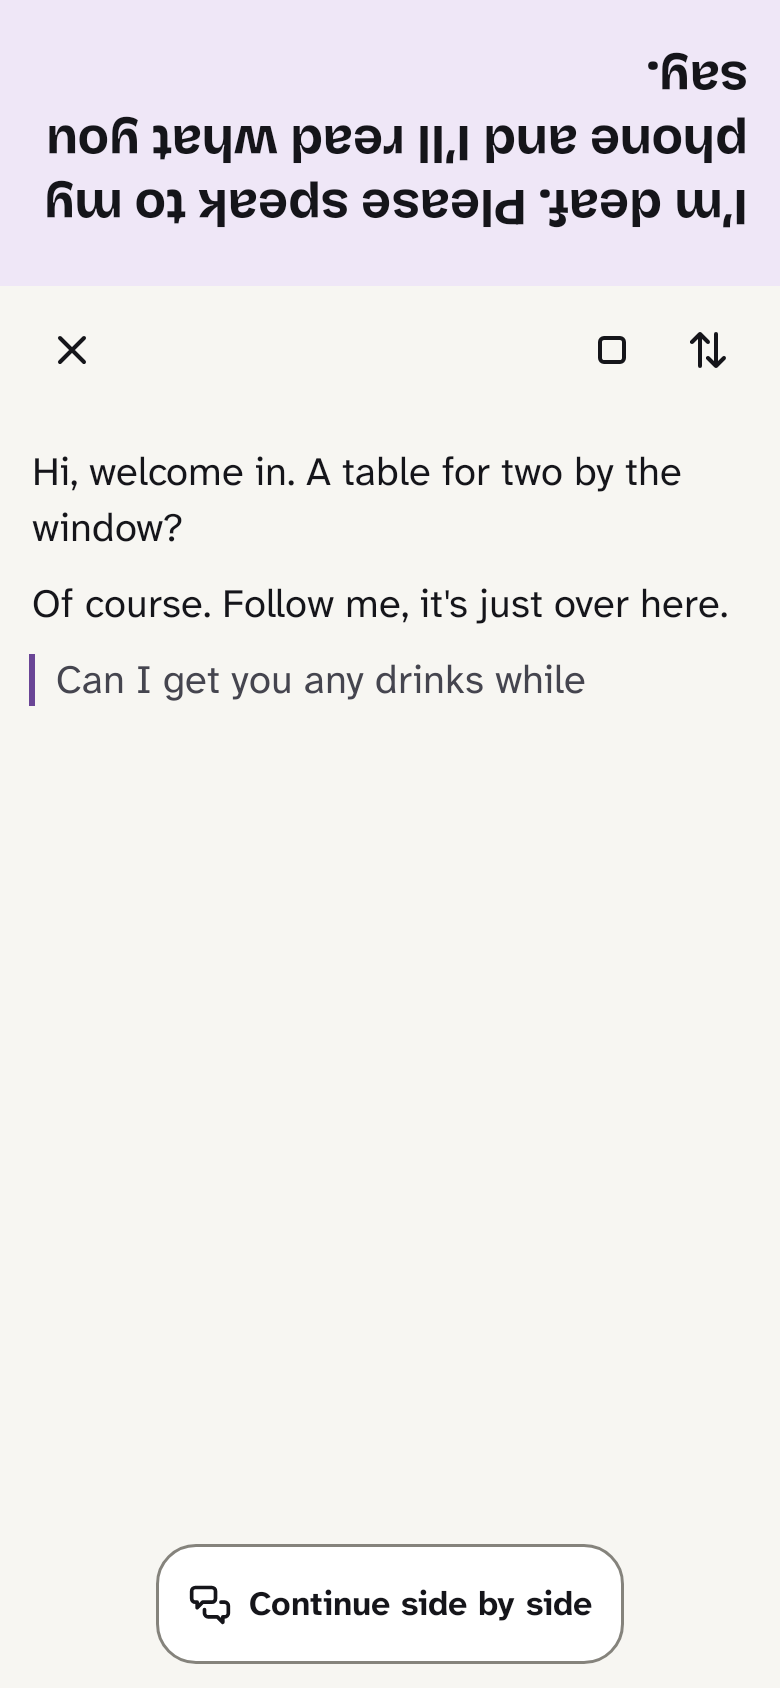
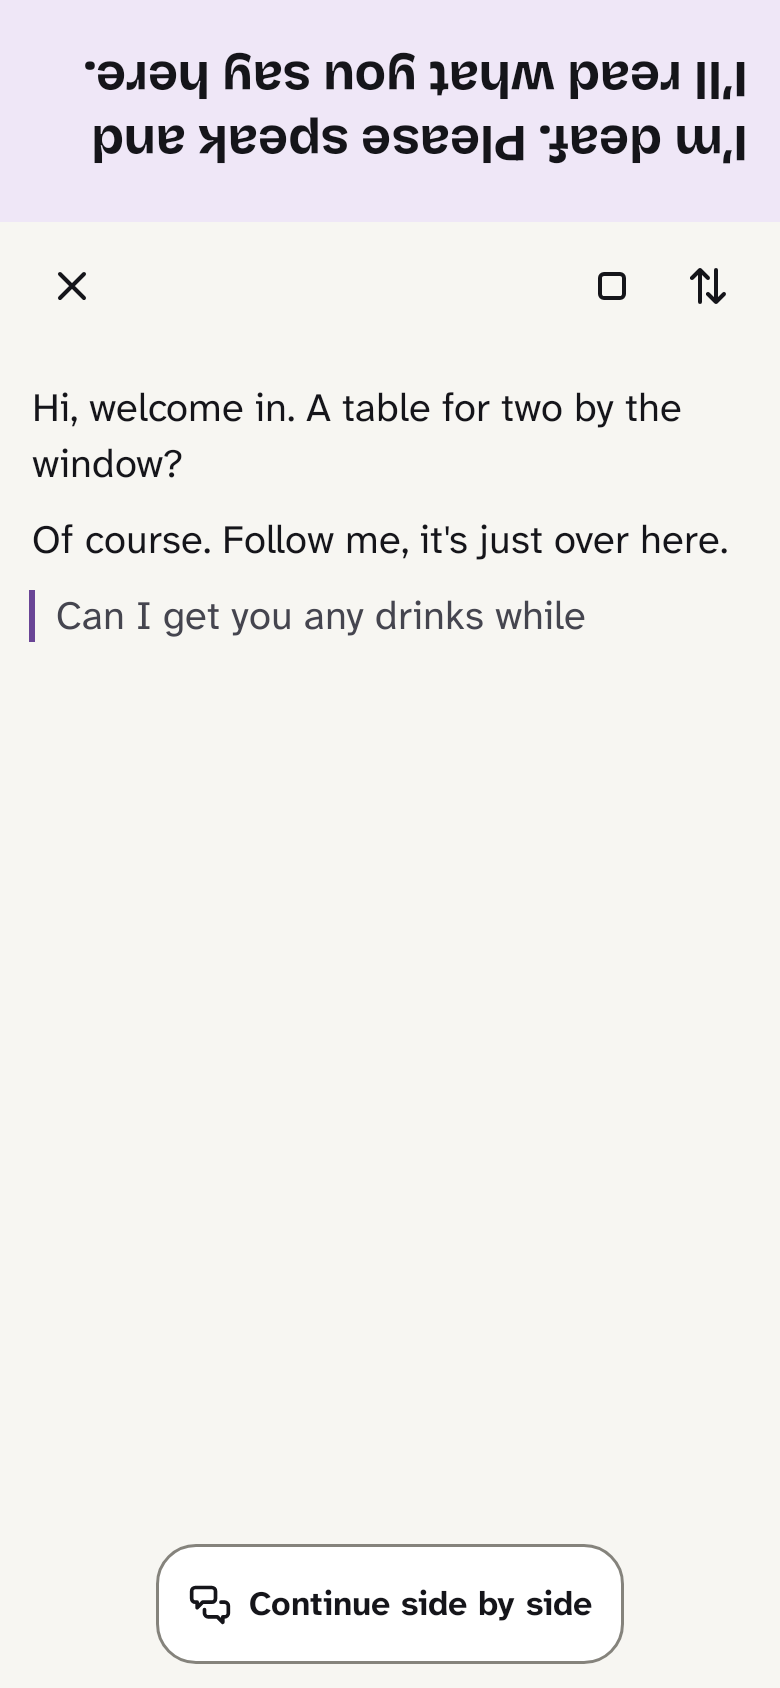
Say device rather than phone in the Instagram posts (#89)
Post copy, captions and alt text no longer assume a phone, the Listen
for me post quotes the new sign, and five screens are refreshed from
the app's marketing captures.

diff --git a/marketing/instagram/posts.js b/marketing/instagram/posts.js
@@ -95,21 +95,21 @@ export const posts = [
         type: "text",
         heading: "No waiting for you to finish",
         paragraphs: [
-          "Hold your phone and type. Your words appear at the top of the screen, facing the person opposite, so they read as you go.",
-          "You keep a secure grip on your phone the whole time.",
-          "When they want to reply, tap Continue side by side and pass them the phone.",
+          "Hold your device and type. Your words appear at the top of the screen, facing the person opposite, so they read as you go.",
+          "You keep a secure grip on your device the whole time.",
+          "When they want to reply, tap Continue side by side and pass it over.",
         ],
       },
     ],
     caption: [
       "Someone at the door? Open Face to face and start typing.",
-      "Your words appear upside down at the top of the screen, facing them, so they read along as you type instead of waiting for you to finish. And you never let go of your phone.",
+      "Your words appear upside down at the top of the screen, facing them, so they read along as you type instead of waiting for you to finish. And you never let go of your device.",
     ],
   },
   {
     id: "side-by-side",
     feature: "Side by side",
-    headline: "Pass the phone. Take turns.",
+    headline: "Pass it over. Take turns.",
     cover: "screens/side-by-side.webp",
     coverFrom: 0.3,
     slides: [
@@ -121,7 +121,7 @@ export const posts = [
       },
       {
         type: "text",
-        heading: "A conversation on one phone",
+        heading: "A conversation on one device",
         paragraphs: [
           "Flip the switch to change turns. A prompt shows them where to type.",
           "Swap sides to match where you're each standing.",
@@ -133,12 +133,12 @@ export const posts = [
         heading: "They can speak instead",
         paragraphs: [
           "On their turn, the other person can tap the microphone and talk. Their words appear in the chat as text.",
-          "It turns speech into text on your phone, and the audio isn't kept.",
+          "It turns speech into text on your device, and the audio isn't kept.",
         ],
       },
     ],
     caption: [
-      "For a proper back and forth, use Side by side. Pass the phone and take turns, with each of you in your own colour so it's easy to follow who said what.",
+      "For a proper back and forth, use Side by side. Pass it over and take turns, with each of you in your own colour so it's easy to follow who said what.",
       "On their turn, they can tap the microphone and speak, and their words appear as text.",
     ],
   },
@@ -191,7 +191,7 @@ export const posts = [
         type: "screen",
         src: "screens/fill-with-name.webp",
         caption: "It's already there when you check in",
-        alt: "The Check in template reading: Hi! I'm deaf. I'd like to check in. My name is Keisha Grant. Please type on my phone. A Show button sits below.",
+        alt: "The Check in template reading: Hi! I'm deaf. I'd like to check in. My name is Keisha Grant. Please write it down. A Show button sits below.",
       },
       {
         type: "text",
@@ -199,13 +199,13 @@ export const posts = [
         paragraphs: [
           "Add your first and last name in Settings and Deaftly fills them into templates like Check in.",
           "If the name on your documents is different, add your legal name too.",
-          "Your names stay on this phone.",
+          "Your names stay on this device.",
         ],
       },
     ],
     caption: [
       "Checking in, seeing the doctor, picking up a prescription: they all start with your name.",
-      "Add it once in Settings and Deaftly fills it in for you. Your names stay on your phone.",
+      "Add it once in Settings and Deaftly fills it in for you. Your names stay on your device.",
     ],
   },
   {
@@ -218,14 +218,14 @@ export const posts = [
         type: "screen",
         src: "screens/listen.webp",
         caption: "Their words appear as they speak",
-        alt: "Listen for me. At the top, upside down for the host, the words I'm deaf. Please speak to my phone and I'll read what you say. Below, what the host said: Hi, welcome in. A table for two by the window? Of course. Follow me, it's just over here. A live line reads Can I get you any drinks while.",
+        alt: "Listen for me. At the top, upside down for the host, the words I'm deaf. Please speak and I'll read what you say here. Below, what the host said: Hi, welcome in. A table for two by the window? Of course. Follow me, it's just over here. A live line reads Can I get you any drinks while.",
       },
       {
         type: "text",
         heading: "For when they'd rather talk",
         paragraphs: [
-          "Open Listen for me and show them the message at the top: I'm deaf. Please speak to my phone and I'll read what you say.",
-          "Their words appear on your screen as they speak. It all happens on your phone, and the audio isn't kept.",
+          "Open Listen for me and show them the message at the top: I'm deaf. Please speak and I'll read what you say here.",
+          "Their words appear on your screen as they speak. It all happens on your device, and the audio isn't kept.",
         ],
       },
       {
@@ -239,8 +239,8 @@ export const posts = [
       },
     ],
     caption: [
-      "Some people would rather just talk. Open Listen for me and Deaftly turns what they say into text on your phone, so you can read along.",
-      "It all happens on your phone and the audio isn't kept. When you want to reply, carry on side by side.",
+      "Some people would rather just talk. Open Listen for me and Deaftly turns what they say into text on your device, so you can read along.",
+      "It all happens on your device and the audio isn't kept. When you want to reply, carry on side by side.",
     ],
   },
   {
@@ -288,7 +288,7 @@ export const posts = [
         type: "text",
         heading: "If you don't see them",
         paragraphs: [
-          "Some phones don't offer shortcuts. If they don't appear, your phone's home screen doesn't support them.",
+          "Some devices don't offer shortcuts. If they don't appear, your device's home screen doesn't support them.",
         ],
       },
     ],
